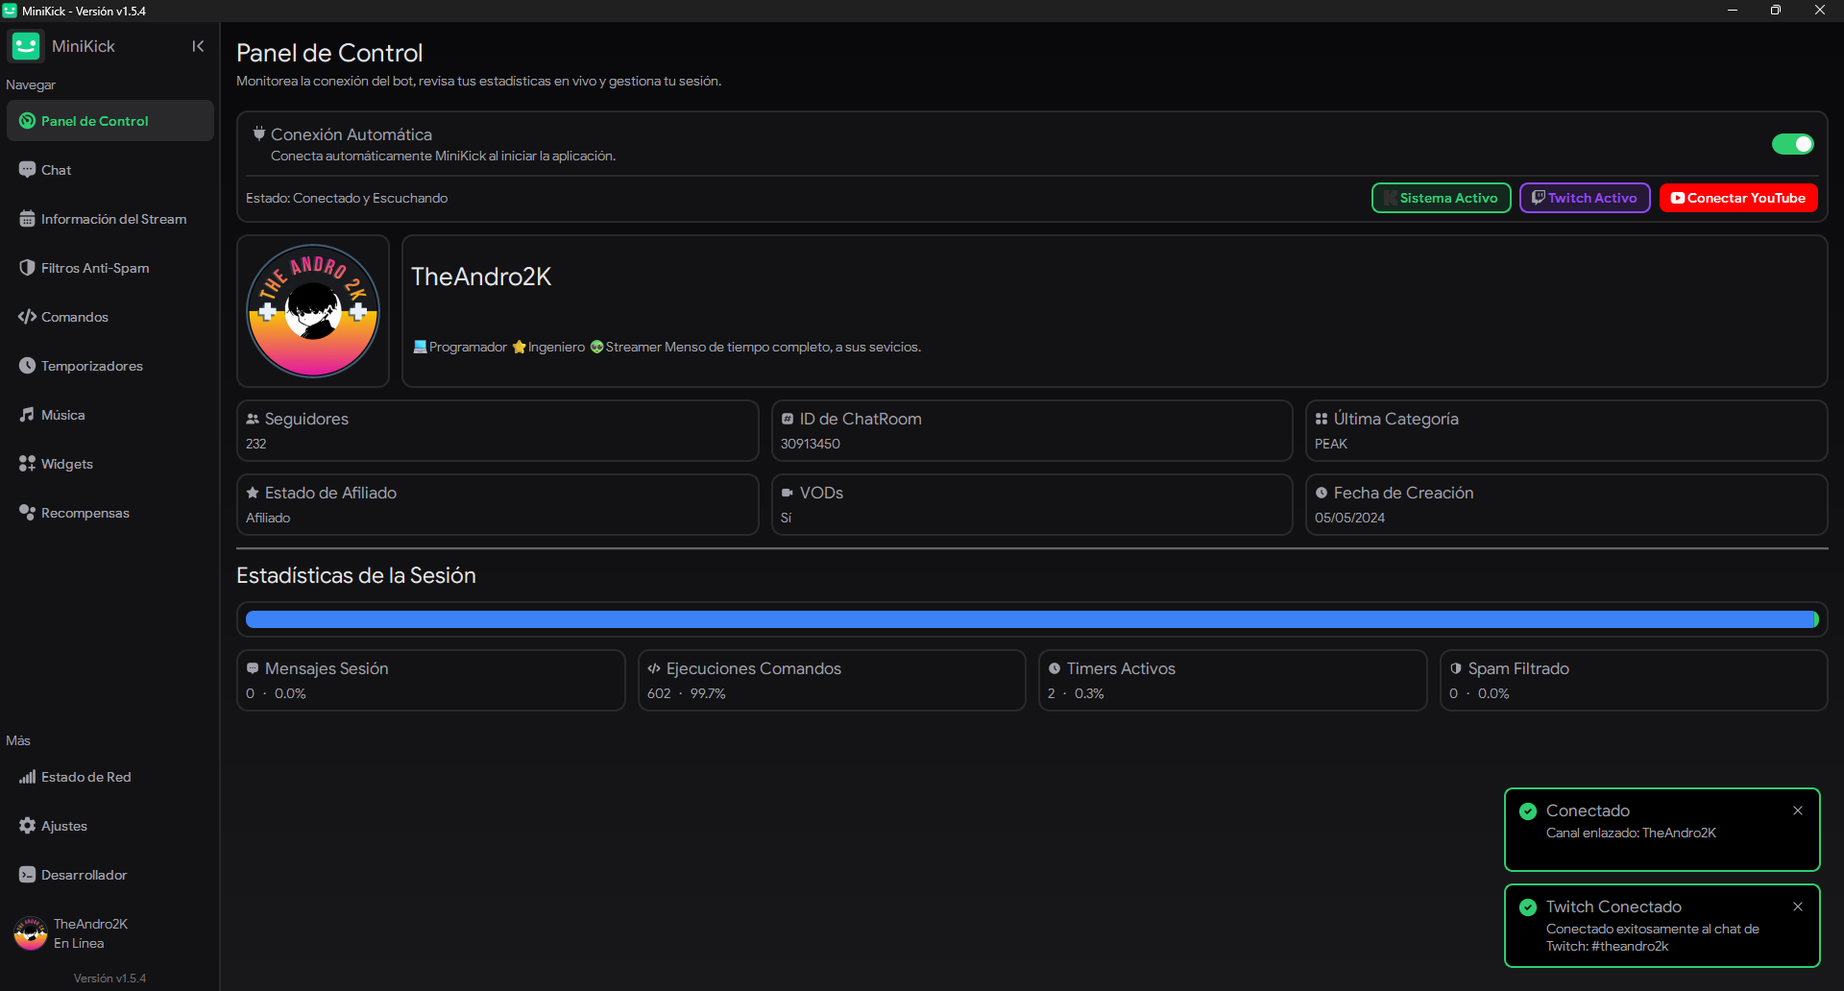
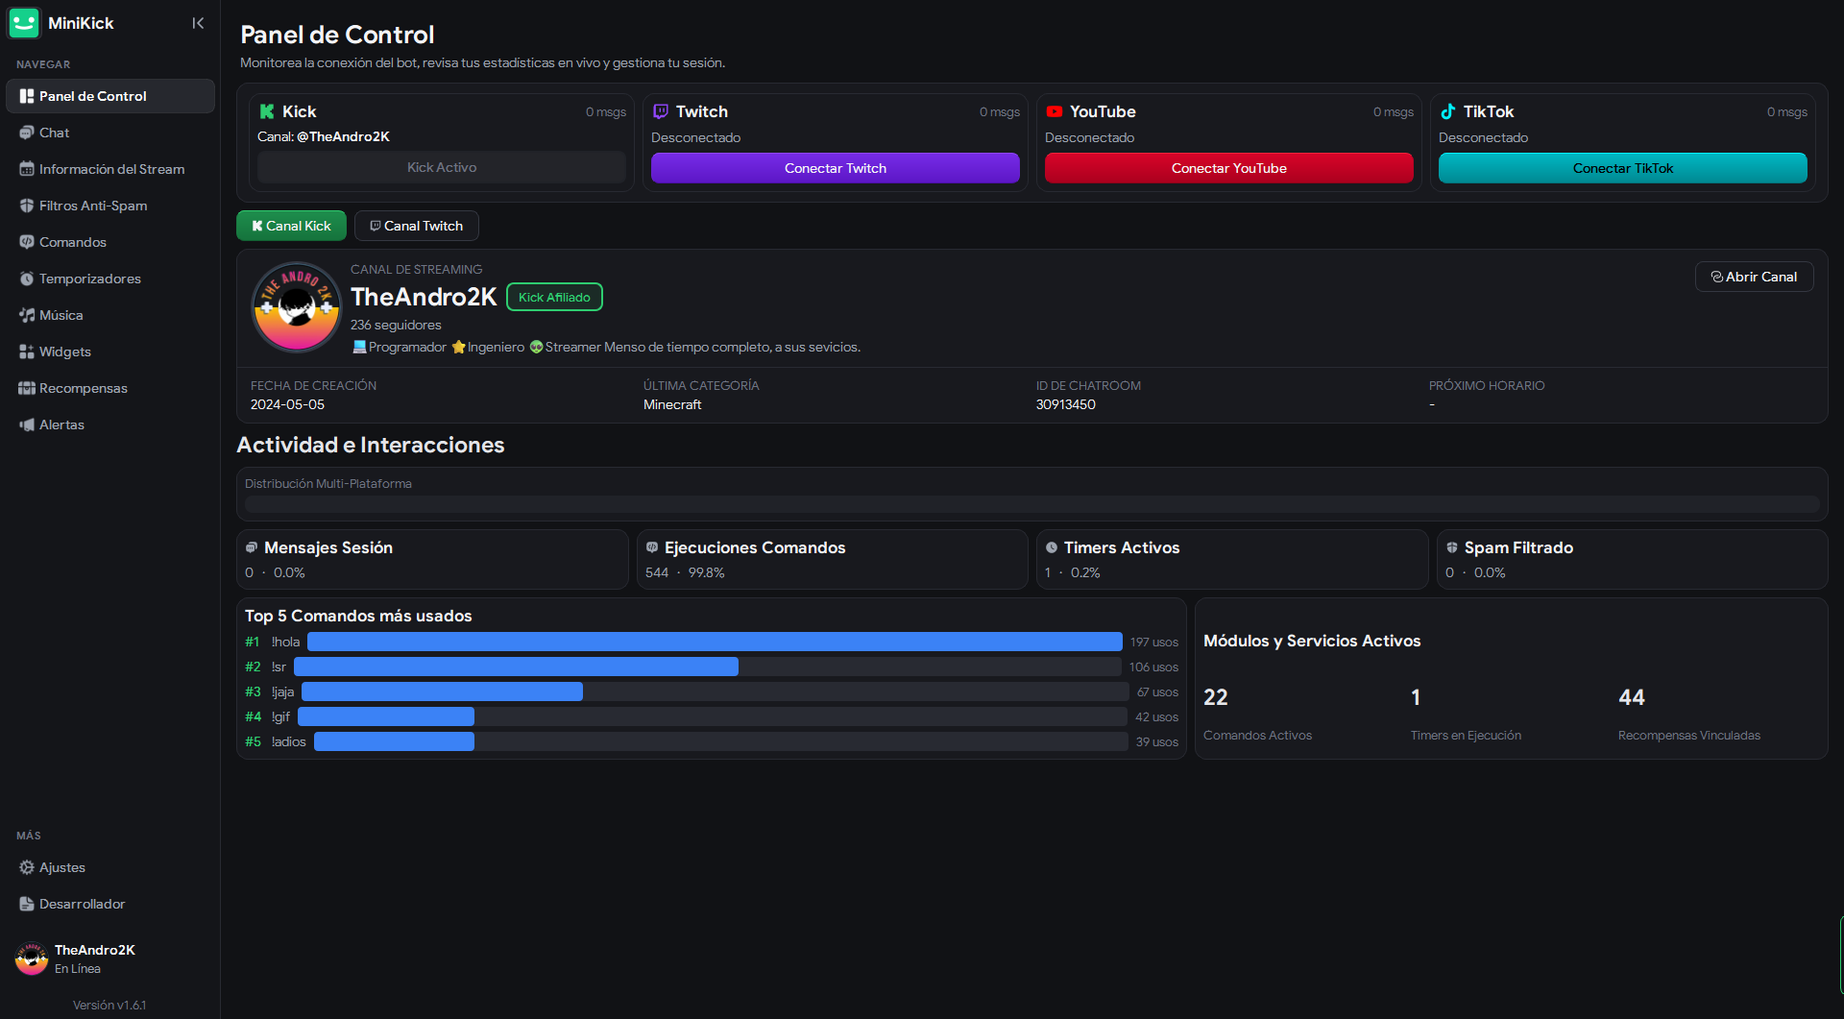
docs: add UI preview screenshots and update README documentation

diff --git a/README.md b/README.md
@@ -1,12 +1,14 @@
 # MiniKick
 
-**El centro de control definitivo, modular y ligero para streamers en Kick, Twitch y YouTube**
+**El centro de control definitivo, modular y ultra ligero para streamers en Kick, Twitch, YouTube y TikTok**
 
-[![Latest Release](https://img.shields.io/github/v/release/Andro2k/MiniKick?style=for-the-badge&logo=kick&color=10BB10&labelColor=191919)](https://github.com/Andro2k/MiniKick/releases/latest) [![Windows Support](https://img.shields.io/badge/Plataforma-Windows-0078D6?style=for-the-badge&logo=windows&logoColor=white&labelColor=191919)](https://github.com/Andro2k/MiniKick/releases/latest) [![Python Version](https://img.shields.io/badge/Python-3.14.5-3776AB?style=for-the-badge&logo=python&logoColor=white&labelColor=191919)](https://www.python.org/) [![PySide6](https://img.shields.io/badge/GUI-PySide6-41CD52?style=for-the-badge&logo=qt&logoColor=white&labelColor=191919)](https://doc.qt.io/qtforpython-6/) [![Clean Architecture](https://img.shields.io/badge/Arquitectura-Clean_Code-FFb900?style=for-the-badge&logo=dataiku&logoColor=white&labelColor=191919)](#arquitectura-e-ingenieria) [![License](https://img.shields.io/github/license/Andro2k/MiniKick?style=for-the-badge&color=blue&labelColor=191919)](https://github.com/Andro2k/MiniKick/blob/main/LICENSE/README.md)
+[![Latest Release](https://img.shields.io/github/v/release/Andro2k/MiniKick?style=for-the-badge&logo=kick&color=10BB10&labelColor=191919)](https://github.com/Andro2k/MiniKick/releases/latest) [![Windows Support](https://img.shields.io/badge/Plataforma-Windows-0078D6?style=for-the-badge&logo=windows&logoColor=white&labelColor=191919)](https://github.com/Andro2k/MiniKick/releases/latest) [![Python Version](https://img.shields.io/badge/Python-3.10%2B-3776AB?style=for-the-badge&logo=python&logoColor=white&labelColor=191919)](https://www.python.org/) [![GUI PySide6](https://img.shields.io/badge/GUI-PySide6%20Qt-41CD52?style=for-the-badge&logo=qt&logoColor=white&labelColor=191919)](https://doc.qt.io/qtforpython-6/) [![Tests](https://img.shields.io/badge/Tests-82%20PASS-brightgreen?style=for-the-badge&logo=pytest&labelColor=191919)](#arquitectura-e-ingenier%C3%ADa) [![License](https://img.shields.io/github/license/Andro2k/MiniKick?style=for-the-badge&color=blue&labelColor=191919)](LICENSE)
 
 <br>
 
-MiniKick es una aplicación de escritorio nativa diseñada para orquestar transmisiones en vivo sin sacrificar el rendimiento de tus juegos ni los FPS de tu stream. Al operar completamente fuera del navegador web, reduce drásticamente el consumo de memoria RAM y ciclos de CPU, unificando en tiempo real la interacción simultánea de **Kick**, **Twitch** y **YouTube Live** con síntesis de voz neuronal local (**Piper TTS**), moderación automatizada sin falsos positivos, control multimedia y un potente servidor de overlays para OBS.
+MiniKick es una aplicación de escritorio nativa concebida para gestionar y potenciar transmisiones en vivo sin sacrificar los FPS de tus juegos ni saturar la memoria RAM. Al operar de forma 100% independiente del navegador web, reduce drásticamente el consumo de CPU y memoria, unificando en tiempo real la interacción simultánea de **Kick**, **Twitch**, **YouTube Live** y **TikTok Live**.
+
+Cuenta con síntesis de voz neuronal local de ultra baja latencia (**Piper TTS**), reproducción interactiva de música, alertas granulares cross-platform, filtros anti-spam inteligentes, moderación automatizada y un completo servidor local de overlays para OBS Studio.
 
 <br>
 
@@ -14,161 +16,184 @@ MiniKick es una aplicación de escritorio nativa diseñada para orquestar transm
 
 ---
 
-### Vista Previa de la Interfaz
+## Vista Previa de la Interfaz
 
+### Panel de Control Multi-Plataforma
+Monitoreo en vivo de conexiones, estadísticas en tiempo real, canales enlazados y métricas clave de la sesión de transmisión.
 ![MiniKick Dashboard - Panel General de Control](docs/screenshots/dashboard_preview.png)
 
-![Ajustes de Voz, Roles y Moderacion de Chat](docs/screenshots/chat_settings_preview.png)
-
-![Reproductor de Musica y Cola de Reproduccion](docs/screenshots/music_player_preview.png)
-
+### Overlay de Chat en Vivo para OBS
+Nuevo diseño estilo mensajería con avatares de usuario, insignias de plataforma, soporte para animaciones GIF, perfiles duales (Vertical y Horizontal) y sincronización instantánea (Live Sync).
 ![Lienzo de Overlay de Chat para OBS y Temas Visuales](docs/screenshots/chat_overlay_preview.png)
 
+### Suite Granular de Alertas
+Personalización visual completa con 14 animaciones independientes de entrada y salida, tipografía de alta fidelidad, previsualización 1:1 y duplicación cross-platform con un clic.
+![Personalización de Alertas Granulares](docs/screenshots/alerts_preview.png)
+
+### Reproductor Multimedia Inteligente
+Cola interactiva de canciones solicitadas por espectadores (`!sr`), barra de progreso deslizable (scrubber), atenuación automática de volumen durante lectura de voz (Ducking) y curva acústica perceptual.
+![Reproductor de Música y Cola de Reproducción](docs/screenshots/music_player_preview.png)
+
+### Recompensas de Canal Vinculadas
+Gestión y duplicación instantánea de recompensas de puntos entre Kick y Twitch con soporte para nombres idénticos, ordenamiento alfabético y alertas personalizadas.
+![Recompensas Vinculadas Cross-Platform](docs/screenshots/rewards_preview.png)
+
+### Widgets Interactivos de OBS
+Colección de overlays dinámicos para pantalla: Top Chatters con avatares, Reloj/Fecha, Encuestas con resolución de empates, Contador de muertes y Marcador de victorias/derrotas.
+![Widgets Interactivos de Chat para OBS](docs/screenshots/widgets_preview.png)
+
 ---
 
-### Funcionalidades Principales
+## Funcionalidades Principales
 
-| Módulo | Función | Descripción |
+| Módulo | Característica | Beneficio para el Streamer |
 | :--- | :--- | :--- |
-| **Ingestión Multi-Plataforma** | Kick + Twitch + YouTube | Captura simultánea de chat, eventos, SuperChats, suscripciones y roles en tiempo real sin cuotas de API. |
-| **Pipeline de Chat Unidireccional** | Procesamiento Seguro | Tubería desacoplada de interceptores puros (*Spam -> UI -> Comandos -> TTS*) con despacho en tiempo constante $\mathcal{O}(1)$. |
-| **Lienzo y Overlays Web** | OBS Studio (Puerto 8090) | Servidor local HTTP + WebSockets (RFC 6455) con 5 identidades visuales (*Glass, Neon, Card, Cyber, Minimal*), soporte de emotes de Kick, Twitch y YouTube, widgets de explosión y combos. |
-| **Voz Neuronal Local (TTS)** | Piper TTS ONNX | Síntesis de voz neuronal de alta calidad que corre 100% local en CPU (~19x velocidad real) con gestor de descarga de voces a demanda, control de velocidad (50%-150%) y precalentamiento sin pausas (*Zero-Latency Warm-Up*). |
-| **Reproductor Multimedia** | Control de Puntos & Comandos | Reproductor integrado con resolución rápida (`yt-dlp`), canje de canciones (`!sr`), saltos (`!skip`), caché inteligente en disco $\mathcal{O}(1)$ e indicador visual para reordenar pistas por Drag & Drop. |
-| **AutoMod y Moderación** | Filtros Inteligentes | Protección activa contra exceso de mayúsculas, repeticiones, enlaces y símbolos, con exclusión previa de emotes para eliminar falsos positivos. |
-| **Persistencia SQLite WAL** | Almacenamiento Seguro | Base de datos local transaccional en modo `WAL` con reintentos automáticos, migraciones automáticas y respaldo seguro en `%LOCALAPPDATA%\.Minikick`. |
-| **Diagnóstico y Reportes** | Estabilidad Continua | Captura global de excepciones con registro detallado de fallos, visor de logs en vivo e informes de incidentes automatizados. |
+| **Ingestión 4-en-1** | Kick + Twitch + YouTube + TikTok | Conexión simultánea a múltiples plataformas en hilos independientes sin necesidad de ventanas de navegador abiertas ni resolución manual de captchas. |
+| **Overlay de Chat para OBS** | Estilo Messenger con Avatares | Burbujas modernas con avatar circular, insignia de Kick/Twitch, soporte de GIFs (`!gif`), emotes animados y 3 temas visuales (Oscuro, Claro Frosted Glass y Minimalista). |
+| **Perfiles Duales de Chat** | Vertical & Horizontal | Configuración totalmente independiente de tipografía, tamaño y márgenes para emisiones estándar (16:9) y contenido vertical (TikTok, Reels, Shorts). |
+| **Voz Neuronal Local (TTS)** | Piper TTS ONNX en CPU | Síntesis de voz ultra rápida en CPU (~19x velocidad real) con catálogo integrado de más de 30 voces comunitarias en español, inglés y más idiomas. |
+| **Protección Acústica** | Ducking & Normalización | La música baja de volumen automáticamente mientras el bot lee un mensaje y se restaura al terminar. Las voces de bajo volumen se normalizan para sonar claras y uniformes. |
+| **Filtro Anti-Spam Inteligente** | Colapso de Caracteres & URLs | Detección y compresión automática de letras o palabras repetitivas y supresión de enlaces web para evitar interrupciones molestas en el directo. |
+| **Alertas & Recompensas** | Duplicación Cross-Platform | Clonación inmediata de configuraciones visuales, audios y animaciones entre Kick y Twitch con un solo clic. |
+| **Música Interactiva** | Scrubber & Peticiones (`!sr`) | Búsqueda y resolución de canciones por YouTube (`yt-dlp`), reordenamiento de cola por arrastre y salto interactivo en la barra de tiempo. |
+| **Widgets de OBS** | Overlays en Tiempo Real | Reconocimiento en pantalla a espectadores activos (Top Chatters), encuestas con visualización de resultados y contadores interactivos. |
+| **Resiliencia & Persistencia** | SQLite WAL & Autostart | Almacenamiento local seguro, inicio automático con Windows, control rápido desde la bandeja del sistema y reconexión inmediata ante caídas de red. |
 
 > [!NOTE]
-> Todas las preferencias de usuario, bases de datos locales (`SQLite`), modelos neuronales descargados y tokens cifrados de sesión persisten de forma aislada y segura en el directorio nativo del sistema: `%LOCALAPPDATA%\.Minikick`.
+> Todas las preferencias de usuario, bases de datos locales (`SQLite`), modelos neuronales descargados y tokens de sesión persisten de forma aislada y segura en el directorio nativo del sistema: `%LOCALAPPDATA%\.Minikick`.
 
 ---
 
-### Arquitectura e Ingeniería
+## Comandos de Chat Disponibles
 
-MiniKick está construido bajo estándares estrictos de **Ingeniería de Software a Escala**, priorizando la **Separación de Responsabilidades (SoR)**, **Inversión de Dependencias (IoC)** y **Eficiencia Algorítmica Big-O**.
+MiniKick incluye un conjunto de comandos listos para usar en el chat de transmisión tanto para streamers y moderadores como para espectadores:
+
+| Comando | Permiso | Descripción |
+|---|---|---|
+| `!sr <búsqueda / URL>` | Todos | Solicita una canción de YouTube para agregar a la cola de reproducción. |
+| `!skip` | Moderador / Streamer | Salta la canción actual en reproducción. |
+| `!gif <búsqueda>` | Todos | Busca y proyecta una animación GIF en el overlay de chat de OBS. |
+| `!ttsmute <usuario>` | Moderador / Streamer | Silencia la lectura de voz para los mensajes de un espectador específico. |
+| `!ttsblock <palabra>` | Moderador / Streamer | Añade una palabra o frase a la lista negra de filtros del bot. |
+| `!topchatters` | Todos | Muestra el ranking en vivo de los espectadores con mayor interacción en el stream. |
+| `!time` | Todos | Muestra la hora y fecha actual en el widget de OBS. |
+| `!death` / `!death +1` | Moderador / Streamer | Consulta o incrementa el contador de muertes en pantalla. |
+| `!win +1` / `!lose +1` | Moderador / Streamer | Incrementa el marcador de victorias o derrotas de la sesión. |
+| `!so <usuario>` | Moderador / Streamer | Envía un mensaje destacado promocionando el canal de otro creador. |
+
+---
+
+## Arquitectura e Ingeniería
+
+MiniKick está construido bajo principios de **Ingeniería de Software a Escala**, priorizando la **Separación de Responsabilidades (SoR)**, **Inversión de Dependencias (IoC)** y **Eficiencia Algorítmica Big-O**.
 
 ```mermaid
 flowchart TD
-    subgraph SOURCELAYER["1. Plataformas Externas (Ingestión de Datos)"]
-        KICK_EXT["Kick (Pusher WebSocket)"]
-        TWITCH_EXT["Twitch (IRC WebSocket)"]
-        YT_EXT["YouTube Live (Polling pytchat)"]
+    subgraph INGESTION["1. Capa de Ingestión Multi-Plataforma"]
+        KICK["Kick (Pusher WebSocket)"]
+        TWITCH["Twitch (IRC WebSocket)"]
+        YT["YouTube Live (pytchat)"]
+        TIKTOK["TikTok Live (Async Client)"]
     end
 
     subgraph WORKERS["2. Hilos de Conexión en Paralelo (QThread)"]
-        K_WORKER["ChatWorker\n(Pusher Protocol)"]
-        T_WORKER["TwitchChatWorker\n(IRC Protocol + Ping/Pong)"]
-        Y_WORKER["YouTubeChatWorker\n(Deduplicación & Polling)"]
+        K_WORK["ChatWorker (Pusher)"]
+        T_WORK["TwitchChatWorker (IRC)"]
+        Y_WORK["YouTubeChatWorker"]
+        TK_WORK["TikTokChatWorker"]
     end
 
-    subgraph CORE_ORCH["3. Orquestador Central (MainWindowCore)"]
-        ROUTE["_route_incoming_message(dto)\nNormaliza a ChatMessageDTO"]
+    subgraph CORE["3. Orquestador Central (MainWindowCore)"]
+        DISPATCH["Normalizador de Mensajes\n(ChatMessageDTO Inmutable)"]
     end
 
-    subgraph PIPELINE["4. Pipeline de Procesamiento de Mensajes (MessagePipeline)"]
-        STEP_SPAM["1. SpamService\n• Filtro Mayúsculas\n• Párrafos / Símbolos\n• Emotes ignorados en O(1)"]
-        STEP_UI["2. Dispatch a UI\n• Emisión de señal Qt\n• Ring Buffer deque(maxlen=200)"]
-        STEP_CMD["3. CommandService\n• Regex & Prefijos\n• Cooldowns O(1)\n• Permisos de Rol\n• Detección de Plugins"]
-        STEP_TTS["4. TTS Pipeline\n• Filtro de roles y bots\n• Normalización de texto"]
+    subgraph PIPELINE["4. Pipeline de Mensajes (O(1) Interceptores)"]
+        P_SPAM["1. Filtro Anti-Spam\n• Colapso de Caracteres\n• Supresión de URLs/GIFs\n• Emotes ignorados en O(1)"]
+        P_UI["2. Despacho a UI\n• Ring Buffer deque(maxlen=200)\n• Emisión de Señales Qt"]
+        P_CMD["3. Motor de Comandos\n• Cooldowns O(1)\n• Permisos de Rol\n• Plugins de Música/Widgets"]
+        P_TTS["4. Canal de Voz TTS\n• Normalización de Picos\n• Ducking de Audio"]
     end
 
-    subgraph ENGINES["5. Servicios y Motores de Ejecución"]
-        MUSIC_SRV["YouTubeMusicProvider\n• Resuelve URLs (yt-dlp)\n• Cache en disco O(1)\n• Reproductor QMediaPlayer"]
-        TTS_MGR["TTSManager (2 Threads)\n• Downloader Worker\n• Synthesis Worker\n• Piper ONNX / Local SAPI / Web"]
-        OVERLAY_SRV["OverlayServerManager (Puerto 8090)\n• Servidor HTTP + WebSockets\n• Envío a OBS (Chat, Widgets, Music)"]
-        SCHED_SRV["ScheduleService / Worker\n• Actualización automática\n• Categorías y Títulos"]
-        TIMER_SRV["TimerWorker\n• Notificaciones periódicas"]
+    subgraph SERVICES["5. Servicios y Servidores Locales"]
+        MUSIC["Motor Multimedia (yt-dlp + QMediaPlayer)"]
+        TTS["Piper TTS Engine (Modelos ONNX Locales)"]
+        OVERLAY["Servidor de Overlays (HTTP + WebSockets :8090)"]
+        SCHED["Programación & Categorías"]
     end
 
-    subgraph DATABASE["6. Capa de Persistencia (SQLite en Modo WAL)"]
-        DB["DatabaseManager\nPRAGMA journal_mode=WAL\nPRAGMA busy_timeout=5000"]
-        T_TOKENS[("Tokens & OAuth")]
-        T_SETTINGS[("Ajustes Generales")]
-        T_COMMANDS[("Comandos y Alias")]
-        T_SPAM[("Filtros y Banned Words")]
-        T_TIMERS[("Timers y Programación")]
-        T_MUSIC[("Historial de Música")]
+    subgraph DATABASE["6. Persistencia Local (SQLite en Modo WAL)"]
+        DB[("Base de Datos Local\nPRAGMA journal_mode=WAL\nPRAGMA busy_timeout=5000")]
     end
 
-    KICK_EXT --> K_WORKER
-    TWITCH_EXT --> T_WORKER
-    YT_EXT --> Y_WORKER
-
-    K_WORKER --> ROUTE
-    T_WORKER --> ROUTE
-    Y_WORKER --> ROUTE
-
-    ROUTE --> STEP_SPAM
-    STEP_SPAM --> STEP_UI
-    STEP_UI --> STEP_CMD
-    STEP_CMD --> STEP_TTS
-
-    STEP_CMD -->|"!sr o comandos de música"| MUSIC_SRV
-    STEP_CMD -->|"[PLUGIN_WIDGET]"| OVERLAY_SRV
-    STEP_TTS --> TTS_MGR
-
+    INGESTION --> WORKERS
+    WORKERS --> DISPATCH
+    DISPATCH --> PIPELINE
+    P_CMD --> MUSIC
+    P_CMD --> OVERLAY
+    P_TTS --> TTS
     PIPELINE <--> DATABASE
-    MUSIC_SRV <--> DATABASE
-    SCHED_SRV <--> DATABASE
-    TIMER_SRV <--> DATABASE
+    SERVICES <--> DATABASE
 ```
 
-#### Principios Clave de Diseño:
-
-1. **Aceleración JSON en C/Rust (`msgspec` / `orjson`):** Deserialización de alta velocidad con fallback transparente a la librería estándar, reduciendo el consumo de CPU por mensaje en un ~60%.
-2. **Eficiencia Algorítmica $\mathcal{O}(1)$:** Erradicación de bucles anidados en rutas críticas. Desalojo de historiales mediante colas de doble extremo `collections.deque` en `SpamService`, `RewardWorker` y `LogService`.
-3. **Carga Perezosa (Lazy Loading):** Los módulos secundarios, workers de descarga y librerías externas pesadas se cargan bajo demanda, logrando un arranque en frío **~50% más rápido** (de 4.17 s a 2.13 s).
-4. **Patrón Pipeline (Chain of Responsibility):** Desacoplamiento total del procesamiento de mensajes. Cada mensaje es un `ChatMessageDTO` inmutable que atraviesa etapas independientes de sanitización, filtrado y despacho.
-5. **Gestión Segura de Memoria y Concurrencia:** Hilos secundarios aislados en `QThread` con señales/ranuras Qt (`Signals/Slots`), bloqueos atómicos (`threading.Lock`) y limpieza determinista de recursos.
-
-> [!IMPORTANT]
-> **Normativa de Contribución:** Cualquier propuesta de cambio debe pasar auditoría de complejidad algorítmica, mantener la paridad total en internacionalización (`locales/es.json` y `locales/en.json`) y respetar el desacoplamiento de capas para ser integrada.
+### Principios Clave de Rendimiento:
+1. **Eficiencia Algorítmica $\mathcal{O}(1)$**: Eliminación de bucles anidados en rutas críticas de chat y eventos. Historiales gestionados con `collections.deque` de tamaño fijo y búsquedas mediante tablas hash.
+2. **Aceleración JSON en C/Rust (`msgspec` / `orjson`)**: Deserialización ultrarrápida con fallback transparente a la librería estándar, reduciendo el consumo de ciclos de procesador por mensaje.
+3. **Carga Perezosa (Lazy Loading)**: Las vistas secundarias, diálogos pesados y modelos de voz se instancian bajo demanda o en precalentamiento diferido para un arranque en frío veloz.
+4. **Concurrencia Segura**: Hilos aislados con `QThread` comunicados exclusivamente mediante el sistema de señales y ranuras de Qt (`Signals/Slots`), eliminando condiciones de carrera y bloqueos de interfaz.
+5. **Base de Datos Resiliente**: SQLite configurado en modo `WAL` (*Write-Ahead Logging*) con reintentos automáticos y protección contra bloqueos concurrentes.
 
 ---
 
-### Stack Tecnológico
+## Stack Tecnológico
 
-- **Core & GUI:** Python 3.14.5 | PySide6 (Qt for Python) | Qt Style Sheets (QSS contextual y tokens HSL)
-- **Aceleración JSON:** `msgspec` (C) | `orjson` (Rust)
-- **Servicios de Red & WebSockets:** Servidor HTTP Local multihilo | WebSockets RFC 6455 nativo | Server-Sent Events (SSE) | Requests | Cloudscraper
-- **Motores de Voz (TTS):** Piper TTS (Modelos ONNX locales) | Edge-TTS (Nube) | SAPI5 (Windows Local)
-- **Audio & Multimedia:** YT-DLP | PySide6 QtMultimedia (`QMediaPlayer`, `QAudioOutput`)
-- **Base de Datos:** SQLite3 (Modo WAL con transacciones atómicas)
-- **Gestión de Paquetes & Build:** `uv` | PyInstaller
+- **Núcleo & Interfaz Gráfica:** Python 3.10+ | PySide6 (Qt 6) | Qt Style Sheets (QSS) con arquitectura de tokens centralizados.
+- **Aceleración de Datos:** `msgspec` (C) | `orjson` (Rust).
+- **Redes & Conectividad:** Servidor HTTP Local multihilo | WebSockets RFC 6455 nativo | Server-Sent Events (SSE) | Cloudscraper | Requests.
+- **Síntesis de Voz (TTS):** Piper TTS (Modelos ONNX locales en CPU) | Edge-TTS (Nube) | SAPI5 (Windows nativo).
+- **Audio & Multimedia:** YT-DLP | PySide6 QtMultimedia (`QMediaPlayer`, `QAudioOutput`) | Normalización acústica de amplitud.
+- **Base de Datos:** SQLite3 (Modo transaccional WAL con transacciones ACID).
+- **Gestor de Paquetes & Compilación:** `uv` | PyInstaller | Inno Setup.
 
 ---
 
-### Guía de Despliegue
+## Guía de Instalación y Despliegue
 
-#### Entorno de Producción (Creadores)
+### Para Creadores de Contenido (Streamers)
 
-1. Dirígete a la sección de [Releases Oficiales](https://github.com/Andro2k/MiniKick/releases/latest).
-2. Descarga la versión más reciente (`MiniKick.exe` o el instalador ejecutable).
-3. Ejecuta la aplicación en Windows 10/11 sin configuraciones adicionales.
+1. Dirígete a la sección de [Releases Oficiales en GitHub](https://github.com/Andro2k/MiniKick/releases/latest).
+2. Descarga la versión más reciente (`MiniKick.exe` o el instalador del sistema).
+3. Ejecuta el programa en Windows 10 u 11. No requiere instalar Python ni dependencias adicionales.
 
-#### Entorno de Desarrollo (Ingenieros)
+### Para Desarrolladores
 
-Configuración del entorno local utilizando `uv`:
+Configuración del entorno de desarrollo local utilizando `uv`:
 
 ```bash
 # 1. Clonar el repositorio
 git clone https://github.com/Andro2k/MiniKick.git
 cd MiniKick
 
-# 2. Sincronizar el entorno virtual y dependencias con uv
+# 2. Sincronizar el entorno virtual y dependencias
 uv sync
 
-# 3. Ejecutar la aplicación
+# 3. Ejecutar la aplicación en modo desarrollo
 uv run python main.py
 
-# 4. Compilar ejecutable de producción
+# 4. Ejecutar la suite completa de pruebas (82 tests)
+uv run pytest resources/tests
+
+# 5. Ejecutar la auditoría maestra de calidad (11 herramientas)
+uv run python resources/tools/system_health_audit.py --all
+
+# 6. Compilar el ejecutable de producción
 uv run pyinstaller --clean --noconfirm MiniKick.spec
 ```
 
 > [!TIP]
-> Si experimentas algún comportamiento inesperado de red o desconexión, consulta la vista interna **Developer -> Logs** de la aplicación o revisa el registro en `%LOCALAPPDATA%\.Minikick\logs\minikick.log`.
+> Si experimentas algún comportamiento inesperado de red o desconexión, consulta la vista interna **Desarrollador -> Logs** de la aplicación o revisa el archivo de registro en `%LOCALAPPDATA%\.Minikick\logs\minikick.log`.
 
 <br>
 
-<sub>Diseñado y desarrollado con estándares de arquitectura por</sub> [<sub>**TheAndro2K**</sub>](https://github.com/Andro2k) <sub>• Distribuido bajo la Licencia MIT</sub>
+---
+
+<sub>Diseñado y desarrollado con dedicación por</sub> [<sub>**TheAndro2K**</sub>](https://github.com/Andro2k) <sub>• Distribuido bajo la Licencia MIT</sub>
